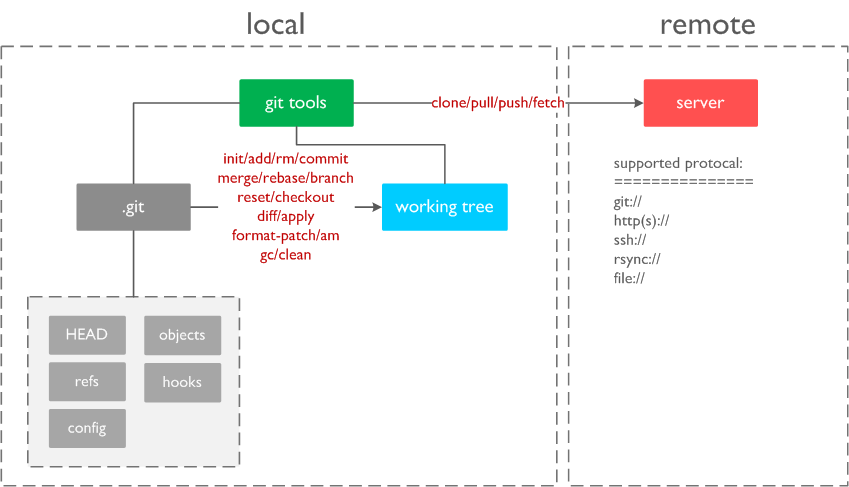
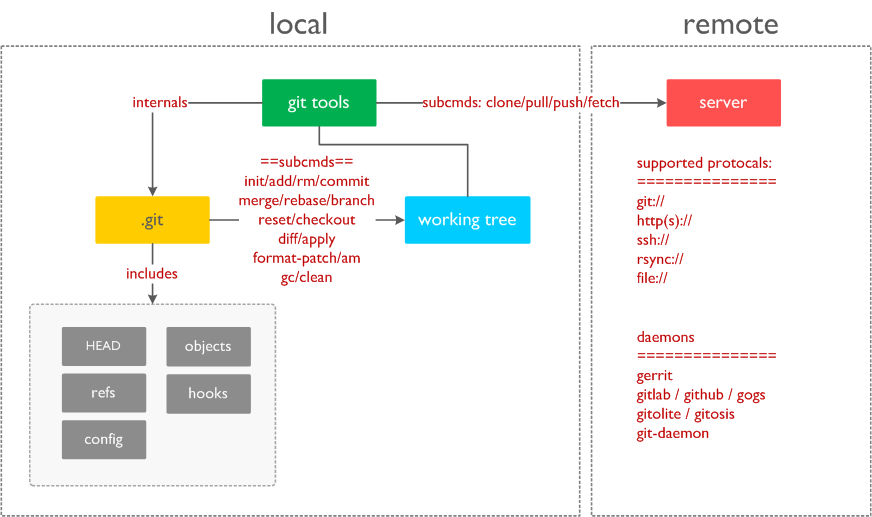
feature: add distributed-system.md

diff --git a/books/git.md b/books/git.md
@@ -1,6 +1,7 @@
 ## 整体架构
 
-![](git-arch.png)
+整体结构图:
+![git-arch](git-arch.png)
 
 ## 内部对象
 - blob：用于存储具体文件内容，是压缩了之后的；
@@ -60,7 +61,7 @@ reference: Documentation/git.txt
 - hash-object: 获取输入对象的hash值
 - cat-file: 查看一个给定hash值得object内容、大小、类型等信息
 - update-index: 更新一个文件到index暂存区中，并且将文件内容写入新的.git/objects/??/xxxx文件中
-- write-tree: 将暂存区的内容写入一个树对象
+- write-tree: 将暂存区的内容写入一个/多个树对象
 - read-tree: 将树对象读取到暂存区中
 - commit-tree: 创建一个提交对象，并且需要为该commit对象提供一个树对象的hash值
 - verify-pack: 查看打包内容信息
@@ -336,6 +337,29 @@ unsigned char data[size];
 
 - **如何merge一个分支到另外一个分支上去？**
 
+**决策过程**：
+
+    - Fastword：当HEAD是需要merge的分支的首个祖先节点时进行这个操作
+    - Do nothing：当HEAD和需要合并的分支的节点是同一个节点时；
+    - trivial merge：当只需要merge一个分支，并且不属于上述两种情况的时候
+        - trivial merge失败后，则需要进行一次真正的merge，需要根据策略调用不同的merge子程序来进行merge操作（最终使用的rcs的merge程序来进行的）
+    - octopus：当输入的合并分支数**大于1个**的时候，需要进行此项合并；
+
+**合并策略**：
+
+根据用户输入(-s $strategy)，可以有四中不同的策略模式：recursive, resolve, ours, octopus;
+
+**合并**：
+
+一个典型的merge操作需要进行如下的步骤
+
+    * 找到HEAD和target的共同祖先节点
+    * 调用merge程序进行merge操作，需要传递祖先文件内容，HEAD文件内容以及target版本文件内容
+    * 根据操作结果进行如下操作：
+        * 成功：
+        * 失败：
+
+
 - **fast-foward是怎么回事，什么情况下要避免使用？**
 
 - **什么情况下一个commit对象有两个parent？**
@@ -352,5 +376,3 @@ committer xxx <xxx@xxx.com> 1492584515 +0800
 ```
 
 git merge后会生成新的commit对象、tree对象、blob对象。git merge后看到的log是按照时间顺序的，是因为在git log输出的时候，做了按时间排序的处理，其实merge并没有对原来的数据提交记录进行更改，只是增加了新的commit、tree、blob对象而已，原来分支上的这些对象也都还在。这个可以通过git cat-file -p打印来验证。
-
-

diff --git a/books/distributed-system.md b/books/distributed-system.md
@@ -1,0 +1,21 @@
+## contents
+- storge: Ralational-DB/Mongo, Cassandra, HDFS
+- computation: Hadoop, Spark, Storm, MapReduce
+- synchronization: NTP, vector clocks
+- consensus: Paxos, Zookeeper
+- messaging: Kafka
+
+## CAP
+consistency <BR>
+availability <BR>
+partiation tolerance <BR>
+
+## ACID
+
+atomic <BR>
+consistency <BR>
+isolated <BR>
+durable <BR>
+
+
+
